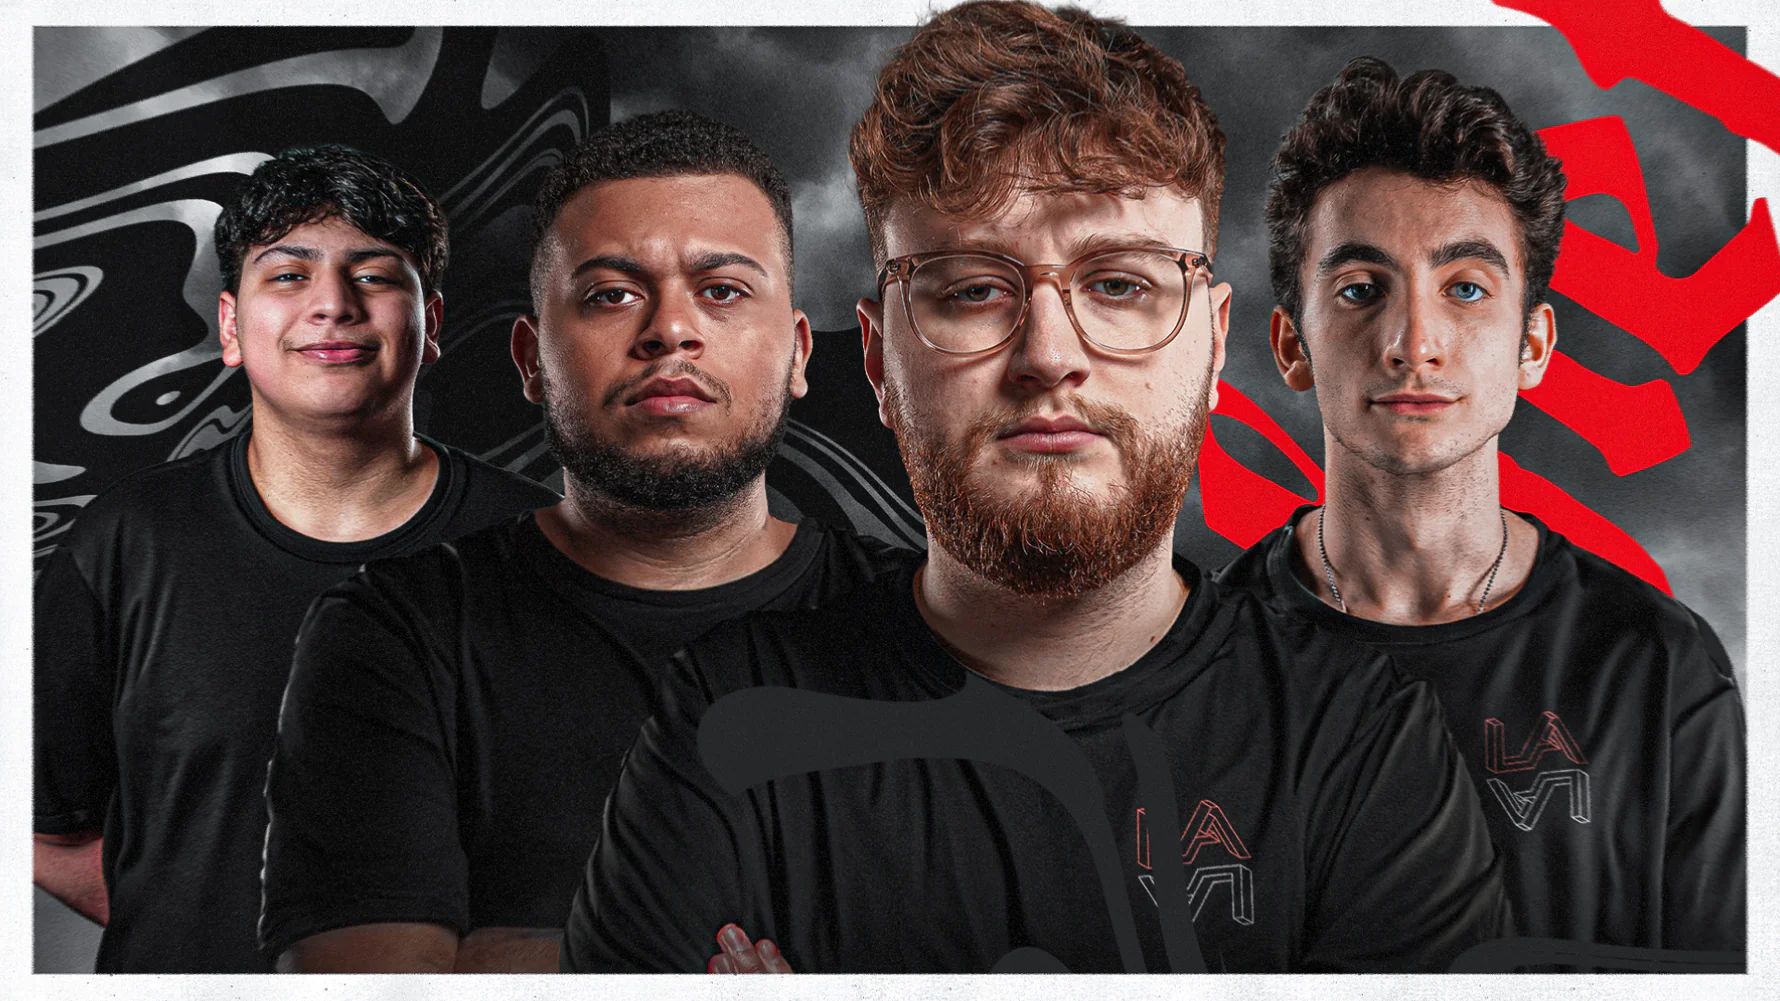
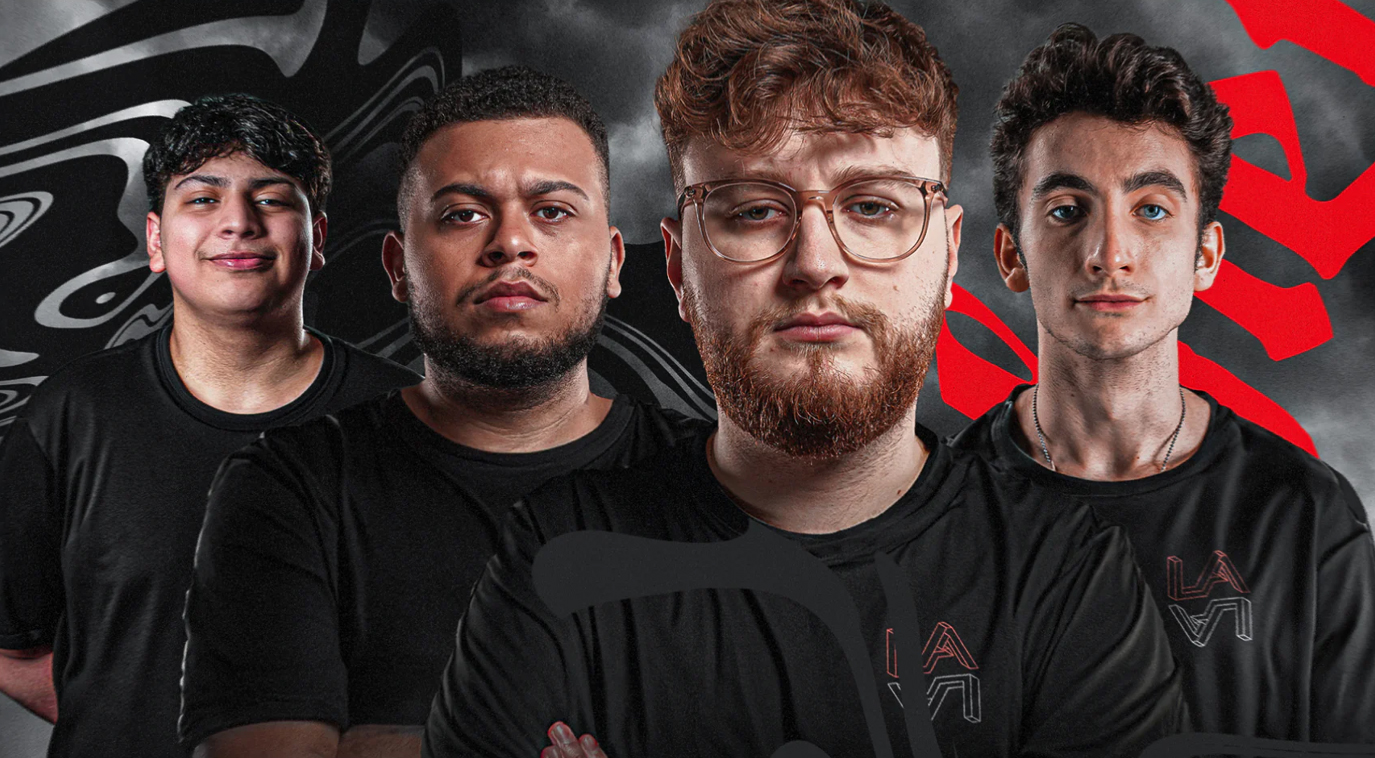
crop LAT pic and change button names

diff --git a/client/src/components/esports/SelectTeam.jsx b/client/src/components/esports/SelectTeam.jsx
@@ -6,13 +6,13 @@ export const SelectTeam = ( props ) => {
   return (
     <div className='select-team flex flex-col w-full overflow-hidden text-white relative' style={{ height: containerHeight }}>
       <div className="h-full w-full flex flex-col justify-center items-center bg-val bg-cover bg-center">
-        <TeamButton onTeamChange={props.onTeamChange}>VAL</TeamButton>
+        <TeamButton onTeamChange={props.onTeamChange}>VALORANT</TeamButton>
       </div>
       <div className="h-full w-full flex flex-col justify-center items-center bg-lcs bg-cover bg-center">
-        <TeamButton onTeamChange={props.onTeamChange}>LOL</TeamButton>
+        <TeamButton onTeamChange={props.onTeamChange}>LEAGUE OF LEGENDS</TeamButton>
       </div>
       <div className="h-full w-full flex flex-col justify-center items-center bg-cdl bg-cover bg-center">
-        <TeamButton onTeamChange={props.onTeamChange}>CDL</TeamButton>
+        <TeamButton onTeamChange={props.onTeamChange}>CALL OF DUTY</TeamButton>
       </div>
   </div>
   )
